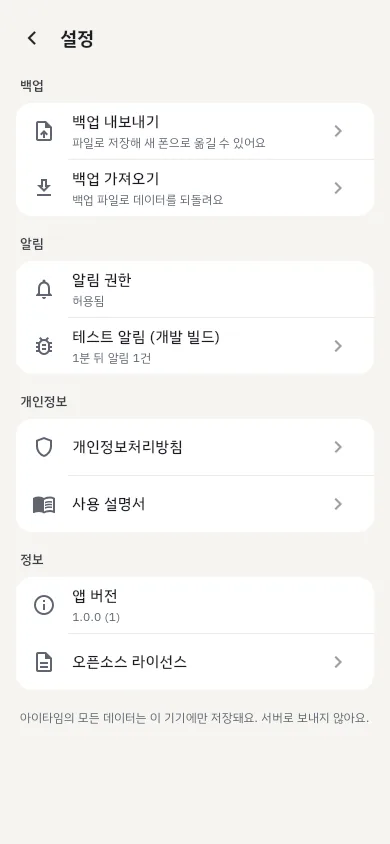
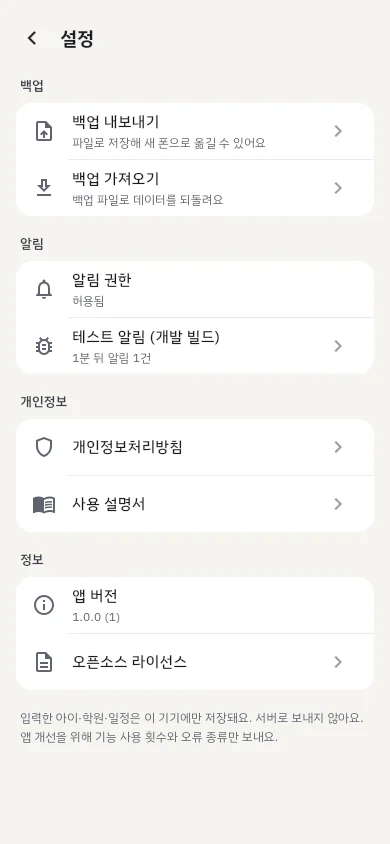
아이타임 1.1 반영 — Google Play 링크, 휴강·PDF·학원비 합계, 설명서 목차, 방침 시행일 10-13

Changed region(s): [[0.0615, 0.8318, 0.9231, 0.8934]]

diff --git a/manual/index.html b/manual/index.html
@@ -22,30 +22,50 @@
 
   <main class="doc">
     <h1>아이타임 사용 설명서</h1>
-    <div class="date">앱 버전 1.0 기준 · 2026년 10월</div>
+    <div class="date">앱 버전 1.1 기준 · 2026년 10월</div>
 
     <p>아이타임은 여러 자녀의 학원 시간표·보강·학원비 결제일을 한 폰에서 관리하는 앱이에요.
       처음이라면 <a href="#start">시작하기</a>의 세 단계만 따라 하면 시간표가 채워져요.</p>
 
     <nav class="toc" aria-label="목차">
-      <strong>목차</strong>
+      <div class="toc-head"><strong>목차</strong><span>오른쪽은 그 기능이 있는 탭이에요</span></div>
+      <div class="grp">시작하기</div>
       <ol>
-        <li><a href="#start">시작하기 — 아이·학원 등록하고 연결하기</a></li>
-        <li><a href="#schedule">시간표 보기 — 주간 · 월간</a></li>
-        <li><a href="#makeup">보강 관리</a></li>
-        <li><a href="#fee">학원비와 결제일 알림</a></li>
-        <li><a href="#call">학원에 전화하기</a></li>
-        <li><a href="#edit">수정하고 삭제하기</a></li>
-        <li><a href="#backup">새 폰으로 옮기기 (백업)</a></li>
-        <li><a href="#settings">설정</a></li>
-        <li><a href="#faq">자주 묻는 질문</a></li>
+        <li><a href="#kid"><span class="n">1-1</span><span class="t">아이 등록</span><span class="tab">아이</span></a></li>
+        <li><a href="#academy"><span class="n">1-2</span><span class="t">학원 등록</span><span class="tab">학원</span></a></li>
+        <li><a href="#enroll"><span class="n">1-3</span><span class="t">아이에게 학원 추가</span><span class="tab">아이</span></a></li>
+      </ol>
+      <div class="grp">시간표</div>
+      <ol>
+        <li><a href="#week"><span class="n">2-1</span><span class="t">주간 시간표</span><span class="tab">스케줄</span></a></li>
+        <li><a href="#month"><span class="n">2-2</span><span class="t">월간 달력</span><span class="tab">스케줄</span></a></li>
+        <li><a href="#print"><span class="n">2-3</span><span class="t">시간표 인쇄 · PDF 공유</span><span class="tab">스케줄</span></a></li>
+        <li><a href="#cancel"><span class="n">2-4</span><span class="t">휴강 설정과 메모</span><span class="tab">스케줄</span></a></li>
+      </ol>
+      <div class="grp">보강</div>
+      <ol>
+        <li><a href="#makeup"><span class="n">3</span><span class="t">보강 등록과 목록</span><span class="tab">보강</span></a></li>
+      </ol>
+      <div class="grp">학원비</div>
+      <ol>
+        <li><a href="#fee"><span class="n">4-1</span><span class="t">결제 주기 · 결제일 · 알림</span><span class="tab">아이</span></a></li>
+        <li><a href="#paid"><span class="n">4-2</span><span class="t">상태 보기와 결제 완료</span><span class="tab">학원</span></a></li>
+        <li><a href="#total"><span class="n">4-3</span><span class="t">한 달 학원비 합계</span><span class="tab">학원</span></a></li>
+      </ol>
+      <div class="grp">관리 · 도움</div>
+      <ol>
+        <li><a href="#call"><span class="n">5</span><span class="t">학원에 전화하기</span><span class="tab">학원</span></a></li>
+        <li><a href="#edit"><span class="n">6</span><span class="t">수정하고 삭제하기</span><span class="tab">아이 · 학원</span></a></li>
+        <li><a href="#backup"><span class="n">7</span><span class="t">새 폰으로 옮기기 (백업)</span><span class="tab">설정</span></a></li>
+        <li><a href="#settings"><span class="n">8</span><span class="t">설정</span><span class="tab">설정</span></a></li>
+        <li><a href="#faq"><span class="n">9</span><span class="t">자주 묻는 질문</span><span class="tab"></span></a></li>
       </ol>
     </nav>
 
     <h2 id="start">1. 시작하기</h2>
     <p>아래 화면 하단에 <strong>스케줄 · 아이 · 학원 · 보강</strong> 탭이 있어요. 순서대로 세 가지만 하면 돼요.</p>
 
-    <h3>① 아이 등록</h3>
+    <h3 id="kid">① 아이 등록</h3>
     <ol>
       <li><strong>아이</strong> 탭 → 오른쪽 위 <strong>아이 등록</strong>.</li>
       <li>이름(애칭도 괜찮아요)을 쓰고 학교(유치원·초등·중등·고등)와 학년을 골라요. 유치원은 나이를 골라요.</li>
@@ -53,17 +73,17 @@
     </ol>
     <p>아이타임은 이름과 학년(나이)만 받아요. 생년월일·주소·사진은 묻지 않아요.</p>
 
-    <h3>② 학원 등록</h3>
+    <h3 id="academy">② 학원 등록</h3>
     <ol>
       <li><strong>학원</strong> 탭 → <strong>신규 등록</strong>.</li>
       <li><strong>나이스에서 학원 찾기</strong>를 누르고 지역과 학원 이름 일부를 넣어 <strong>검색</strong>해요. 교육청에 등록된 학원·교습소가 나오고, 고르면 학원명과 과목이 채워져요.
         나이스에 등록된 전화번호가 있으면 <strong>등록된 번호 넣기</strong>가 보여요 — 맞는 번호인지 확인하고 눌러요. 찾는 학원이 없거나 인터넷이 안 되면 <strong>직접 입력하기</strong>로 돌아와 입력하면 돼요.</li>
-      <li>학원명, 과목, 시간표에 쓸 <strong>색상</strong>(8가지)을 골라요. 전화번호와 메모(셔틀 시간 등)는 선택이에요.</li>
+      <li>학원명, 과목, 시간표에 쓸 <strong>색상</strong>(8가지)을 골라요. 전화번호와 메모(셔틀 시간 등)는 선택이에요. 전화번호 칸 오른쪽 <strong>연락처에서 고르기</strong>를 누르면 폰 연락처에서 학원 번호를 골라 넣을 수 있어요 — 고른 번호 하나만 들어오고, 연락처 권한은 묻지 않아요.</li>
       <li><strong>저장</strong>.</li>
     </ol>
     <div class="note">학원에는 요일·시간·학원비를 넣지 않아요. 같은 학원이라도 아이마다 시간과 학원비가 다를 수 있어서, 다음 단계에서 아이별로 정해요.</div>
 
-    <h3>③ 아이에게 학원 추가</h3>
+    <h3 id="enroll">③ 아이에게 학원 추가</h3>
     <ol>
       <li><strong>아이</strong> 탭에서 아이 카드의 <strong>+ 학원 추가</strong>.</li>
       <li>다니는 학원을 골라요. 학원이 목록에 없으면 <strong>+ 새 학원</strong>으로 바로 만들 수 있어요.</li>
@@ -86,16 +106,22 @@
       <figure><div class="phone sm"><img src="../img/week.webp" width="390" height="844" alt="주간 시간표" loading="lazy"></div><figcaption>주간</figcaption></figure>
       <figure><div class="phone sm"><img src="../img/month.webp" width="390" height="844" alt="월간 달력" loading="lazy"></div><figcaption>월간</figcaption></figure>
     </div>
-    <h3>주간</h3>
+    <h3 id="week">주간</h3>
     <ul>
       <li>위의 <strong>전체 · 아이 이름</strong>을 눌러 보고 싶은 아이만 골라요.</li>
       <li><span class="kbd">‹</span> <span class="kbd">›</span>로 주를 옮기고, <strong>오늘</strong>로 이번 주로 돌아와요.</li>
       <li>처음엔 오후 2시부터 보여요. 위아래로 밀면 아침 7시~밤 11시까지 볼 수 있어요.</li>
       <li>두 아이 수업이 같은 시간에 있으면 칸을 나눠 나란히 보여줘요.</li>
       <li>수업 블록을 누르면 수업 정보가 뜨고, 거기서 <strong>이 수업 보강 등록</strong>이나 <strong>수강 수정</strong>으로 갈 수 있어요.</li>
-      <li><strong>흐리고 점선·취소선인 블록</strong>은 보강으로 빠진 수업이에요. 보강 자체는 주간에 그리지 않고, 아래 <strong>보강 n건</strong> 줄로 알려줘요. 그 줄을 누르면 월간으로 가요.</li>
+      <li id="cancel">보강 날짜가 아직 없어도 <strong>휴강 설정</strong>을 누르면 그 날 수업 하나가 빠진 수업이 돼요. 사유(휴강·결석·기타)와 짧은 메모(40자까지)를 남길 수 있고, <strong>휴강 취소</strong>로 되돌려요. 나중에 보강 날짜가 정해지면 같은 수업에서 <strong>이 수업 보강 등록</strong>을 누르면 사유·메모가 이어져요. 보강이 정해지지 않은 휴강은 <strong>보강</strong> 탭 위쪽 <strong>보강 날짜 미정</strong>에 모여요.</li>
+      <li><strong>흐리고 점선·취소선인 블록</strong>은 빠진 수업(휴강 설정 또는 보강 등록)이에요. 보강 자체는 주간에 그리지 않고, 아래 <strong>보강 n건</strong> 줄로 알려줘요. 그 줄을 누르면 월간으로 가요.</li>
+      <li id="print"><strong>오늘</strong> 왼쪽의 <strong>인쇄 아이콘</strong>을 누르면 보고 있는 주의 시간표를 A4 가로 한 장 PDF로 만들어요. 위에서 고른 아이 그대로예요. <strong>인쇄하기</strong>는 폰의 인쇄 화면을 열고(거기서 PDF로 저장도 돼요), <strong>PDF 공유하기</strong>는 메신저·메일로 보낼 수 있어요.</li>
     </ul>
-    <h3>월간</h3>
+    <div class="shot-row">
+      <figure><div class="phone sm"><img src="../img/cancel.webp" width="390" height="844" alt="휴강 설정 화면: 사유(휴강·결석·기타)와 메모 입력, 저장 버튼" loading="lazy"></div><figcaption>휴강 설정</figcaption></figure>
+      <figure><div class="phone sm"><img src="../img/academies.webp" width="390" height="844" alt="학원 탭 맨 위 한 달 학원비 합계" loading="lazy"></div><figcaption>한 달 학원비 합계(4-3)</figcaption></figure>
+    </div>
+    <h3 id="month">월간</h3>
     <ul>
       <li>일요일부터 시작하는 달력이에요. 날짜 아래 <strong>점</strong>이 그날의 정규 수업(학원 색)이에요.</li>
       <li><strong>속이 빈 점</strong>은 빠진 수업, 검은 <strong>보강</strong> 배지는 그날 보강이 있다는 뜻이에요.</li>
@@ -126,12 +152,13 @@
     <p>학원비는 <strong>아이에게 학원을 추가(또는 수정)하는 화면</strong>의 <strong>학원비 결제</strong>에서 정해요.</p>
     <table>
       <tr><th>항목</th><th>뜻</th></tr>
-      <tr><td>결제 주기</td><td>1개월마다 또는 3개월마다</td></tr>
+      <tr><td>결제 주기</td><td>1개월마다, 3개월마다 또는 6개월마다</td></tr>
+      <tr><td>학원비 금액</td><td>한 번 낼 때 금액(선택). 3·6개월 주기면 한 달로 나눈 금액도 바로 보여줘요.</td></tr>
       <tr><td>결제일</td><td>매달 며칠에 내는지(1~31일). 그 달에 없는 날(예: 2월 31일)은 <strong>그 달 말일</strong>로 계산해요.</td></tr>
       <tr><td>마지막 결제일</td><td>가장 최근에 낸 날. 이걸 기준으로 <strong>다음 결제일</strong>을 계산해 보여줘요.</td></tr>
       <tr><td>결제일 알림</td><td>새 수강은 꺼져 있어요. 켜면 다음 결제일 <strong>당일</strong>, 고른 시간(오전 8시·9시·낮 12시·오후 8시·직접 입력)에 알림이 와요.</td></tr>
     </table>
-    <h3>상태 보기와 결제 완료</h3>
+    <h3 id="paid">상태 보기와 결제 완료</h3>
     <p><strong>학원</strong> 탭에서 아이별 학원비 상태를 봐요. 아이 탭 카드에도 같은 상태가 나와요.</p>
     <ul>
       <li><span class="tag t-over">2일 지남 미결제</span> 결제일이 지났어요</li>
@@ -141,12 +168,15 @@
     </ul>
     <p>학원비를 냈으면 <strong>결제 완료</strong>를 눌러요. 결제 기록이 남고 다음 결제일이 주기만큼 넘어가며, 알림도 새 결제일로 다시 맞춰져요.
       위쪽 노란 줄은 <strong>오늘이거나 지난</strong> 학원비가 몇 건인지 알려줘요.</p>
+    <h3 id="total">한 달 학원비 합계</h3>
+    <p><strong>학원</strong> 탭 맨 위에서 이번 달에 다니는 학원의 학원비를 <strong>아이별</strong>과 <strong>전체</strong>로 더해 보여줘요.
+      3개월·6개월에 한 번 내는 학원비는 <strong>한 달 몫</strong>(3개월 30만원이면 10만원)으로 나눠 더해요. 금액을 넣지 않은 수강은 "금액 없는 수강 N곳"으로 따로 알려줘요.</p>
     <h3>알림 권한</h3>
     <p>처음으로 알림을 켠 수강을 저장할 때(또는 백업을 가져올 때) 휴대폰이 알림 허용을 물어요. <strong>허용</strong>을 눌러야 알림이 와요.
       나중에 바꾸려면 <a href="#settings">설정</a>의 <strong>알림 권한</strong>에서 <strong>설정 열기</strong>를 눌러요.</p>
 
     <h2 id="call">5. 학원에 전화하기</h2>
-    <p><strong>학원</strong> 탭의 학원 카드에 있는 전화 버튼을 누르면 전화 앱이 그 번호로 열려요. 전화번호를 넣지 않은 학원은 버튼이 보이지 않아요.</p>
+    <p><strong>학원</strong> 탭의 학원 카드에 있는 전화 버튼을 누르면 전화 앱이 그 번호로 열려요. 전화번호를 넣지 않은 학원은 버튼이 보이지 않아요. 번호는 학원 수정 화면에서 직접 쓰거나 <strong>연락처에서 고르기</strong>로 넣어요.</p>
 
     <h2 id="edit">6. 수정하고 삭제하기</h2>
     <ul>
@@ -211,7 +241,7 @@
       <p>검색은 교육청에 등록된 학원·교습소 정보(나이스 교육정보 개방 포털)에서 찾아요. 지역(교육청)이 맞는지, 이름을 더 짧게 써 보세요(예: "한빛 수학학원" → "한빛").
         체육관·개인 레슨처럼 교육청 등록 대상이 아닌 곳은 없을 수 있어요. 그럴 땐 직접 입력하면 돼요. 검색할 때는 <strong>검색어와 지역만</strong> 나이스로 보내요.</p></details>
     <details><summary>광고를 없앨 수 있나요?</summary>
-      <p>지금은 광고 제거 기능이 없어요. 광고는 탭 화면 아래 배너 하나뿐이고, 입력하는 화면과 설정에는 나오지 않아요.</p></details>
+      <p>지금은 광고 제거 기능이 없어요. 광고는 탭 화면 아래 배너 하나뿐이고, 입력하는 화면과 설정에는 나오지 않아요. 아이가 함께 볼 수 있어서 보호자 지도(PG) 등급 이하 광고만 나와요.</p></details>
     <details><summary>아이폰에서 "추적을 허용할까요?"라고 물어요.</summary>
       <p>처음 실행할 때 한 번, 맞춤 광고에 광고 식별자를 써도 되는지 묻는 아이폰 기본 창이에요. <strong>어느 쪽을 골라도 앱 기능은 똑같아요</strong> — 허용하지 않으면 맞춤형이 아닌 광고가 나와요.
         나중에 바꾸려면 아이폰 설정 → 개인정보 보호 및 보안 → 추적에서 바꿔요.</p></details>

diff --git a/privacy.html b/privacy.html
@@ -21,7 +21,7 @@
 
   <main class="doc">
     <h1>아이타임 개인정보처리방침</h1>
-    <div class="date">시행일: 2026년 10월 8일</div>
+    <div class="date">시행일: 2026년 10월 13일</div>
 
     <p>아이타임(이하 ‘앱’, 패키지 <code>world.rapa.itime</code>)은 여러 자녀의 학원 시간표·보강·학원비 결제일을
       관리하는 앱입니다. 본 방침은 앱이 어떤 정보를 다루고 어떻게 보호하는지 설명합니다.</p>
@@ -42,25 +42,28 @@
       <tr><td>아이</td><td>이름(애칭 가능), 학교급, 학년(유치원은 나이)</td></tr>
       <tr><td>학원</td><td>학원명, 과목, 색상, 전화번호(선택), 메모(선택)</td></tr>
       <tr><td>수강·시간표</td><td>요일·시간, 수강 기간</td></tr>
-      <tr><td>보강</td><td>날짜·시간, 사유, 메모</td></tr>
-      <tr><td>학원비</td><td>결제 주기, 결제일, 결제한 날짜 기록, 알림 시간 (금액은 받지 않습니다)</td></tr>
+      <tr><td>보강·휴강</td><td>날짜·시간, 사유, 메모(휴강 메모는 한 줄)</td></tr>
+      <tr><td>학원비</td><td>결제 주기, 결제일, 금액(선택), 결제한 날짜 기록, 알림 시간</td></tr>
     </table>
     <ul>
       <li>위 정보는 <strong>기기 안의 데이터베이스에만 저장</strong>되고 개발자 서버로 전송되지 않습니다. 개발자는 서버를 운영하지 않습니다.</li>
       <li>아이의 <strong>생년월일·주소·사진·연락처는 입력받지 않습니다.</strong></li>
+      <li>학원 전화번호를 <strong>연락처에서 고르기</strong>로 넣으면, 운영체제 연락처 선택 화면에서 이용자가 고른 <strong>번호 한 건만</strong> 앱에 전달되어 학원 전화번호 칸에 저장됩니다. 연락처 권한을 요청하지 않으며 다른 연락처는 읽지 않습니다.</li>
       <li>회원가입·로그인·계정이 없습니다.</li>
     </ul>
 
-    <h3>나. 백업 파일 (이용자가 직접 내보낼 때만)</h3>
+    <h3>나. 백업 파일·시간표 PDF (이용자가 직접 내보낼 때만)</h3>
     <ul>
       <li>설정의 <strong>백업 내보내기</strong>를 누르면 위 정보를 담은 파일(<code>aitime_backup_날짜.json</code>)을 만들고, 운영체제 공유 화면을 엽니다.</li>
+      <li>스케줄 주간의 <strong>인쇄 아이콘</strong>을 누르면 그 주 시간표(아이 이름·학원명·수업 시간·보강)를 담은 PDF 를 폰 안에서 만들고, 운영체제 인쇄 화면이나 공유 화면을 엽니다.</li>
       <li>파일을 어디로 보낼지는 <strong>이용자가 직접 고릅니다</strong>(메신저, 메일, 클라우드 등). 앱이 스스로 파일을 어딘가로 보내지 않습니다.</li>
       <li>보낸 곳에서의 보관·처리는 그 서비스의 정책을 따릅니다.</li>
     </ul>
 
     <h3>다. 광고 (Google AdMob)</h3>
     <p>앱은 무료로 제공되며 탭 화면 아래에 배너 광고를 표시합니다. 광고는 Google 의 <strong>Google Mobile Ads SDK</strong>가 제공하며,
-      광고를 보여주고 측정하고 부정 사용을 막기 위해 다음 정보를 처리합니다.</p>
+      광고를 보여주고 측정하고 부정 사용을 막기 위해 다음 정보를 처리합니다.
+      아이가 함께 볼 수 있는 앱이라 <strong>보호자 지도(PG) 등급 이하 광고만</strong> 요청합니다.</p>
     <ul>
       <li>광고 식별자 — Android 광고 ID, iOS 에서는 <strong>이용자가 추적을 허용한 경우에만</strong> 광고 식별자(IDFA).
         iOS 는 앱을 처음 실행할 때 추적 허용 여부를 묻습니다(App Tracking Transparency). 허용하지 않아도 앱의 기능과 광고 표시는 그대로이며, 맞춤형이 아닌 광고가 나옵니다.</li>
@@ -85,7 +88,7 @@
       <tr><td>함께 처리되는 정보</td><td>앱 인스턴스 ID(설치마다 무작위로 만드는 값), 광고 ID(1-다와 같은 조건), 기기 모델·운영체제·언어, 앱 버전, IP 주소를 통한 대략적 지역</td></tr>
     </table>
     <ul>
-      <li>이용자가 입력한 <strong>아이 이름·학년, 학원명·과목·전화번호·메모, 시간표·보강·학원비 날짜는 보내지 않습니다.</strong>
+      <li>이용자가 입력한 <strong>아이 이름·학년, 학원명·과목·전화번호·메모, 시간표·보강·학원비 날짜·금액은 보내지 않습니다.</strong>
         앱은 정해진 기능 이름만 보내도록 만들어져 있고, 오류 보고는 입력 내용이 섞일 수 있는 메시지를 버리고 종류만 보냅니다.</li>
       <li>개발자는 이 정보를 <strong>통계(몇 명이 어떤 기능을 썼는지)와 오류 수정</strong>에만 쓰며, 이용자 개인을 알아보는 데 쓰지 않습니다. 사용자 ID 를 붙이지 않습니다.</li>
       <li>유럽경제지역·영국 등 동의가 필요한 지역에서는 1-다의 동의 화면(UMP)에서 고른 내용이 사용 통계의 동의 상태에도 적용됩니다.</li>
@@ -101,7 +104,7 @@
         그리고 통신 과정에서 전달되는 IP 주소</td><td><strong>검색 버튼을 누를 때만</strong>. 화면을 열거나 앱을 켜는 것만으로는 보내지 않습니다.</td></tr>
     </table>
     <ul>
-      <li>아이 이름·학년, 학원 전화번호·메모, 시간표·보강·학원비 날짜는 <strong>보내지 않습니다.</strong> 검색 결과로 받은 학원명·과목은 이용자가 고를 때만 입력칸에 채워지고, 주소는 저장하지 않습니다.</li>
+      <li>아이 이름·학년, 학원 전화번호·메모, 시간표·보강·학원비 날짜·금액은 <strong>보내지 않습니다.</strong> 검색 결과로 받은 학원명·과목은 이용자가 고를 때만 입력칸에 채워지고, 주소는 저장하지 않습니다.</li>
       <li>검색을 쓰지 않고 학원을 직접 입력하면 아무것도 보내지 않습니다.</li>
       <li>조회한 정보의 출처: 나이스 교육정보 개방 포털(open.neis.go.kr) 학원교습소정보</li>
     </ul>
@@ -109,7 +112,7 @@
     <h3>바. 수집하지 않는 것</h3>
     <ul>
       <li>위 1-다·1-라 외에 이용자의 행동을 추적하거나 다른 분석 도구를 쓰지 않습니다.</li>
-      <li>위치 권한, 연락처, 사진, 카메라, 마이크에 접근하지 않습니다.</li>
+      <li>위치, 사진, 카메라, 마이크에 접근하지 않습니다. 연락처는 권한 없이 이용자가 고른 번호 한 건만 받습니다(1-가).</li>
     </ul>
 
     <h2>2. 이용 목적</h2>
@@ -157,6 +160,7 @@
 
     <h2>8. 방침 변경</h2>
     <p>본 방침이 바뀌면 이 페이지에 개정 내용과 시행일을 게시합니다.</p>
+    <p>개정 이력: 2026년 10월 13일 — 앱 1.1 기능 반영(휴강 메모, 학원비 금액, 시간표 PDF 인쇄·공유, 연락처에서 학원 번호 고르기, 보호자 지도(PG) 등급 광고).</p>
 
     <h2>9. 문의</h2>
     <p>개인정보 관련 문의: <a href="mailto:fready.shin@gmail.com?subject=%5B%EC%95%84%EC%9D%B4%ED%83%80%EC%9E%84%5D%20%EA%B0%9C%EC%9D%B8%EC%A0%95%EB%B3%B4%20%EB%AC%B8%EC%9D%98">fready.shin@gmail.com</a></p>
@@ -164,7 +168,7 @@
 
   <footer class="site">
     <div class="links"><a href="./">아이타임 홈</a><a href="manual/">사용 설명서</a><a href="account-deletion.html">데이터 삭제 안내</a></div>
-    아이타임 · 최종 수정 2026년 10월 8일 · <a href="https://rapa.world/">rapa.world 의 다른 서비스 보기</a>
+    아이타임 · 최종 수정 2026년 10월 13일 · <a href="https://rapa.world/">rapa.world 의 다른 서비스 보기</a>
   </footer>
 </div>
 </body>

diff --git a/index.html b/index.html
@@ -4,7 +4,7 @@
 <meta charset="utf-8">
 <meta name="viewport" content="width=device-width, initial-scale=1">
 <title>아이타임 - 우리 아이 학원 시간표</title>
-<meta name="description" content="여러 자녀의 학원 시간표·보강·학원비 결제일을 한 폰에서 관리하는 앱. 회원가입 없이, 데이터는 내 폰에만.">
+<meta name="description" content="여러 자녀의 학원 시간표·휴강·보강·학원비 결제일을 한 폰에서 관리하는 앱. 주간 시간표 PDF 인쇄, 한 달 학원비 합계. 회원가입 없이, 데이터는 내 폰에만.">
 <link rel="canonical" href="https://itime.rapa.world/">
 <meta property="og:title" content="아이타임 - 우리 아이 학원 시간표">
 <meta property="og:description" content="여러 자녀의 학원 시간표·보강·학원비 결제일을 한 폰에서.">
@@ -34,7 +34,8 @@
           <li>회원가입 없음</li><li>데이터는 내 폰에만</li><li>안드로이드 · iOS</li>
         </ul>
         <div class="badges">
-          <span class="badge soon" aria-label="스토어 출시 준비 중">스토어 출시 준비 중</span>
+          <a class="badge" href="https://play.google.com/store/apps/details?id=world.rapa.itime">Google Play에서 받기</a>
+          <span class="badge soon">App Store 심사 중</span>
           <a class="badge ghost" href="manual/">사용 설명서 보기</a>
         </div>
       </div>
@@ -50,6 +51,7 @@
           <li>같은 시간에 두 아이 수업이 있으면 칸을 나눠 나란히</li>
           <li>월간 달력에서 날짜를 누르면 그날 일정이 아래에</li>
           <li>요일마다 수업 시간이 달라도 그대로 입력</li>
+          <li>주간 시간표를 A4 한 장 PDF로 인쇄하거나 메신저로 공유</li>
         </ul>
       </div>
       <div class="phone sm"><img src="img/month.webp" width="390" height="844" alt="월간 달력: 날짜마다 학원 색 점과 보강 배지" loading="lazy"></div>
@@ -57,32 +59,34 @@
 
     <section class="feature">
       <div class="text">
-        <div class="kicker">보강 관리</div>
-        <h2>빠진 수업과 보강,<br>헷갈리지 않게</h2>
-        <p>결석이나 휴강으로 생긴 보강을 등록하면 원래 수업은 시간표에서 흐리게 표시돼요.
-          보강 일정은 월간 달력과 보강 목록에서 따로 챙겨요.</p>
+        <div class="kicker">휴강 · 보강 관리</div>
+        <h2>휴강과 보강,<br>헷갈리지 않게</h2>
+        <p>시간표에서 수업을 눌러 <strong>휴강</strong>으로 표시하고 "선생님 출장"처럼 짧은 메모를 남겨요.
+          빠진 수업은 시간표에서 흐리게 보이고, 보강 날짜가 정해지면 그 수업에서 바로 보강을 이어 등록해요.</p>
         <ul>
+          <li>보강 날짜가 아직 없는 휴강은 보강 탭 위쪽에 모아서</li>
           <li>최근 4주 · 앞으로 4주 수업 중에서 빠진 수업 고르기</li>
           <li>학원 사정으로 생긴 추가 수업도 등록</li>
           <li>예정 / 지난 보강을 나눠 보기</li>
         </ul>
       </div>
-      <div class="phone sm"><img src="img/makeups.webp" width="390" height="844" alt="보강 목록: 날짜, 학원, 아이, 사유와 원래 수업" loading="lazy"></div>
+      <div class="phone sm"><img src="img/makeups.webp" width="390" height="844" alt="보강 목록: 보강 날짜 미정인 휴강과 예정된 보강, 사유와 원래 수업" loading="lazy"></div>
     </section>
 
     <section class="feature">
       <div class="text">
         <div class="kicker">학원비 결제일 알림</div>
         <h2>학원비 날,<br>놓치지 않게 알려드려요</h2>
-        <p>아이별로 결제 주기(1개월·3개월)와 결제일을 정해 두면, 결제일 당일 원하는 시간에 알림이 와요.
+        <p>아이별로 결제 주기(1·3·6개월)와 결제일을 정해 두면, 결제일 당일 원하는 시간에 알림이 와요.
           학원 화면에서 "결제 완료"만 누르면 다음 결제일로 넘어가요.</p>
         <ul>
           <li><span class="tag t-today">오늘 결제일</span> <span class="tag t-soon">D-3</span> <span class="tag t-over">2일 지남 미결제</span> 상태가 한눈에</li>
+          <li>한 달 학원비 합계를 아이별·전체로</li>
           <li>31일 결제는 짧은 달엔 말일로 자동 계산</li>
-          <li>학원 전화도 버튼 하나로</li>
+          <li>학원 전화도 버튼 하나로 — 번호는 연락처에서 골라 넣기</li>
         </ul>
       </div>
-      <div class="phone sm"><img src="img/academies.webp" width="390" height="844" alt="학원 관리 화면: 아이별 학원비 상태와 결제 완료 버튼, 전화 버튼" loading="lazy"></div>
+      <div class="phone sm"><img src="img/academies.webp" width="390" height="844" alt="학원 관리 화면: 맨 위 한 달 학원비 합계(아이별·전체), 학원비 상태와 결제 완료 버튼, 전화 버튼" loading="lazy"></div>
     </section>
 
     <section class="feature">
@@ -107,9 +111,10 @@
 
     <section>
       <h2 style="font-size:1.45rem">자주 묻는 질문</h2>
-      <details><summary>무료인가요?</summary><p>네, 무료예요. 탭 화면 아래에 작은 배너 광고가 하나 있어요. 입력하는 화면에는 광고가 없어요.</p></details>
+      <details><summary>무료인가요?</summary><p>네, 무료예요. 탭 화면 아래에 작은 배너 광고가 하나 있어요. 입력하는 화면에는 광고가 없고, 아이가 함께 볼 수 있어서 보호자 지도(PG) 등급 이하 광고만 나와요.</p></details>
       <details><summary>아이 몇 명까지 등록할 수 있나요?</summary><p>제한이 없어요. 아이마다 다니는 학원과 시간, 학원비를 따로 관리해요.</p></details>
       <details><summary>배우자 폰과 같이 볼 수 있나요?</summary><p>실시간 공유는 없어요(서버가 없어서요). 백업 파일을 보내 다른 폰에서 가져오면 같은 시간표를 볼 수 있어요.</p></details>
+      <details><summary>어디서 받을 수 있나요?</summary><p>안드로이드는 <a href="https://play.google.com/store/apps/details?id=world.rapa.itime">Google Play</a>에서 받을 수 있어요. 아이폰(App Store)은 심사 중이에요.</p></details>
       <details><summary>알림이 안 와요.</summary><p>휴대폰 설정에서 아이타임 알림이 켜져 있는지 확인해 주세요. 자세한 방법은 <a href="manual/#faq">사용 설명서</a>에 있어요.</p></details>
     </section>
   </main>

diff --git a/site.css b/site.css
@@ -76,8 +76,21 @@ details p { margin: 8px 0 0; color: var(--label); }
 .doc li { margin: 4px 0; }
 .note { background: var(--primary-soft); color: var(--primary-ink); border-radius: 12px; padding: 12px 14px; margin: 14px 0; }
 .warn { background: var(--warn-soft); color: var(--warn-ink); border-radius: 12px; padding: 12px 14px; margin: 14px 0; }
-.toc { background: var(--card); border-radius: 16px; padding: 14px 18px; }
-.toc ol { margin: 6px 0 0; padding-left: 20px; }
+/* 설명서 목차 — 시간표 카드 모양: 묶음 머리글, 번호, 점선, 그 기능이 있는 탭 */
+.toc { background: var(--card); border: 1px solid var(--border); border-radius: 16px; padding: 18px 20px 14px; }
+.toc .toc-head { display: flex; justify-content: space-between; align-items: baseline; gap: 12px; flex-wrap: wrap;
+  padding-bottom: 10px; border-bottom: 1px solid var(--border); }
+.toc .toc-head span { color: var(--sub); font-size: .82rem; }
+.toc .grp { color: var(--primary-ink); font-size: .8rem; font-weight: 700; letter-spacing: .04em; margin: 16px 0 2px; }
+.toc ol { list-style: none; margin: 0; padding: 0; }
+.toc li a { display: flex; align-items: baseline; gap: 10px; padding: 6px 0; color: var(--ink); text-decoration: none; }
+.toc li a .n { flex: none; width: 2.4em; color: var(--sub); font-variant-numeric: tabular-nums; font-size: .9rem; }
+.toc li a .t { flex: none; max-width: 70%; }
+.toc li a::after { content: ""; order: 3; flex: 1; min-width: 12px; border-bottom: 2px dotted var(--border); opacity: .9; transform: translateY(-.3em); }
+.toc li a .tab { order: 4; flex: none; font-size: .78rem; font-weight: 600; color: var(--primary-ink); background: var(--primary-soft);
+  border-radius: 999px; padding: 2px 9px; }
+.toc li a .tab:empty { display: none; }
+.toc li a:hover .t { color: var(--primary); }
 table { border-collapse: collapse; width: 100%; margin: 10px 0; font-size: .93rem; background: var(--card); border-radius: 12px; overflow: hidden; }
 th, td { border-bottom: 1px solid var(--border); padding: 9px 10px; text-align: left; vertical-align: top; }
 th { color: var(--label); font-weight: 600; }
